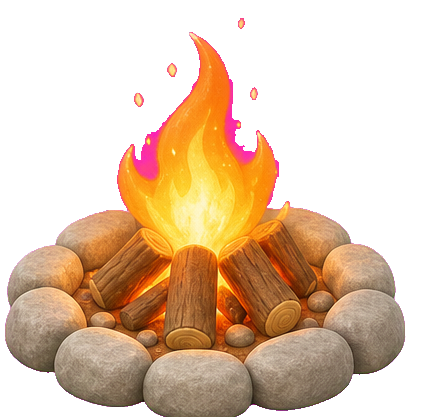
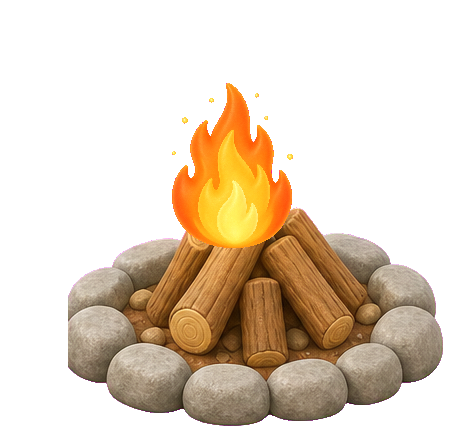
Fix mountain campsite assets

diff --git a/mathgame/script.js b/mathgame/script.js
@@ -122,9 +122,10 @@ const ASSETS = {
   waterfallLilypads: "assets/gpt-waterfall-lilypads.png",
   waterfallBasket: "assets/gpt-waterfall-basket.png",
   waterfallLavenderPlush: "assets/gpt-waterfall-lavender-plush.png?v=20260616-lavender-plush-v2",
-  mountainTent: "assets/gpt-mountain-tent.png",
-  mountainCampfireOff: "assets/gpt-mountain-campfire-off.png",
-  mountainCampfireOn: "assets/gpt-mountain-campfire-on.png",
+  mountainTent: "assets/gpt-mountain-tent.png?v=20260616-mountain-camp-v2",
+  mountainCampfireOff: "assets/gpt-mountain-campfire-off.png?v=20260616-mountain-camp-v2",
+  mountainCampfireOn: "assets/gpt-mountain-campfire-on.png?v=20260616-mountain-camp-v2",
+  mountainFairyLights: "assets/gpt-mountain-fairy-lights.png?v=20260616-mountain-camp-v2",
   mountainSnacks: "assets/gpt-mountain-snacks.png",
   mountainShelter: "assets/gpt-mountain-shelter.png",
   mountainLantern: "assets/gpt-mountain-lantern.png",
@@ -198,6 +199,7 @@ const DECOR_ITEMS = [
   { id: "lavenderPlush", scene: "waterfall", name: "Lavender plush", tex: "waterfallLavenderPlush", x: -2.62, y: 0.42, z: 0.62, w: 1.0, h: 0.93, reward: "Waterfall quests", cost: { coins: 70, gems: 0 }, optional: true },
   { id: "mountainTent", scene: "mountain", name: "Summit tent", tex: "mountainTent", x: -2.25, y: 0.74, z: 0.42, w: 1.52, h: 1.38, reward: "Summit Trail", cost: { coins: 125, gems: 1 } },
   { id: "mountainCampfire", scene: "mountain", name: "Campfire ring", tex: "mountainCampfireOff", x: 0.02, y: 0.42, z: 0.62, w: 1.0, h: 0.9, reward: "Mountain quests", cost: { coins: 95, gems: 1 } },
+  { id: "mountainFairyLights", scene: "mountain", name: "Fairy lights", tex: "mountainFairyLights", x: 0.16, y: 1.36, z: 0.34, w: 1.32, h: 0.45, reward: "Mountain quests", cost: { coins: 115, gems: 1 }, optional: true },
   { id: "mountainSnacks", scene: "mountain", name: "Trail snacks", tex: "mountainSnacks", x: 1.42, y: 0.46, z: 0.58, w: 0.86, h: 0.86, reward: "Mountain quests", cost: { coins: 75, gems: 0 } },
   { id: "mountainShelter", scene: "mountain", name: "Pup shelter", tex: "mountainShelter", x: 2.55, y: 0.95, z: 0.42, w: 1.34, h: 1.24, reward: "Mountain quests", cost: { coins: 140, gems: 2 } },
   { id: "mountainLantern", scene: "mountain", name: "Star lantern", tex: "mountainLantern", x: -0.98, y: 0.74, z: 0.5, w: 0.62, h: 1.04, reward: "Mountain quests", cost: { coins: 85, gems: 1 } },
@@ -409,9 +411,9 @@ if (IS_DEMO) {
     mountainUnlocked: true,
     underwaterUnlocked: true,
     kitchenUnlocked: true,
-    decorUnlocked: ["couch", "plant", "tv", "chair", "lamp", "table", "remote", "rockingDogToy", "piggyCarToy", "kitchenCounter", "kitchenSink", "kitchenWallShelves", "snackCart", "kitchenFridge", "oven", "bowlStation", "breakfastTable", "cookieTray", "shelfInsert", "cookieJar", "cupcakeStand", "teaKettle", "recipeBook", "herbPlanter", "puppyMug", "bench", "ball", "toys", "waterfallLog", "waterfallLantern", "waterfallLilypads", "waterfallBasket", "lavenderPlush", "mountainTent", "mountainCampfire", "mountainSnacks", "mountainShelter", "mountainLantern", "underwaterShellSeat", "underwaterPearlLamp", "underwaterTreasureChest", "underwaterBubbleHoop", "underwaterKelpHideout"],
-    decorOwned: ["couch", "plant", "tv", "chair", "lamp", "table", "remote", "rockingDogToy", "piggyCarToy", "kitchenCounter", "kitchenSink", "kitchenWallShelves", "snackCart", "kitchenFridge", "oven", "bowlStation", "breakfastTable", "cookieTray", "shelfInsert", "cookieJar", "cupcakeStand", "teaKettle", "recipeBook", "herbPlanter", "puppyMug", "bench", "ball", "toys", "waterfallLog", "waterfallLantern", "waterfallLilypads", "waterfallBasket", "lavenderPlush", "mountainTent", "mountainCampfire", "mountainSnacks", "mountainShelter", "mountainLantern", "underwaterShellSeat", "underwaterPearlLamp", "underwaterTreasureChest", "underwaterBubbleHoop", "underwaterKelpHideout"],
-    decorPlaced: ["couch", "plant", "tv", "lamp", "remote", "rockingDogToy", "piggyCarToy", "kitchenCounter", "kitchenSink", "kitchenWallShelves", "snackCart", "kitchenFridge", "oven", "bowlStation", "breakfastTable", "cookieTray", "shelfInsert", "cookieJar", "cupcakeStand", "teaKettle", "recipeBook", "herbPlanter", "puppyMug", "bench", "ball", "toys", "waterfallLog", "waterfallLantern", "waterfallLilypads", "waterfallBasket", "lavenderPlush", "mountainTent", "mountainCampfire", "mountainSnacks", "mountainShelter", "mountainLantern", "underwaterShellSeat", "underwaterPearlLamp", "underwaterTreasureChest", "underwaterBubbleHoop", "underwaterKelpHideout"],
+    decorUnlocked: ["couch", "plant", "tv", "chair", "lamp", "table", "remote", "rockingDogToy", "piggyCarToy", "kitchenCounter", "kitchenSink", "kitchenWallShelves", "snackCart", "kitchenFridge", "oven", "bowlStation", "breakfastTable", "cookieTray", "shelfInsert", "cookieJar", "cupcakeStand", "teaKettle", "recipeBook", "herbPlanter", "puppyMug", "bench", "ball", "toys", "waterfallLog", "waterfallLantern", "waterfallLilypads", "waterfallBasket", "lavenderPlush", "mountainTent", "mountainCampfire", "mountainFairyLights", "mountainSnacks", "mountainShelter", "mountainLantern", "underwaterShellSeat", "underwaterPearlLamp", "underwaterTreasureChest", "underwaterBubbleHoop", "underwaterKelpHideout"],
+    decorOwned: ["couch", "plant", "tv", "chair", "lamp", "table", "remote", "rockingDogToy", "piggyCarToy", "kitchenCounter", "kitchenSink", "kitchenWallShelves", "snackCart", "kitchenFridge", "oven", "bowlStation", "breakfastTable", "cookieTray", "shelfInsert", "cookieJar", "cupcakeStand", "teaKettle", "recipeBook", "herbPlanter", "puppyMug", "bench", "ball", "toys", "waterfallLog", "waterfallLantern", "waterfallLilypads", "waterfallBasket", "lavenderPlush", "mountainTent", "mountainCampfire", "mountainFairyLights", "mountainSnacks", "mountainShelter", "mountainLantern", "underwaterShellSeat", "underwaterPearlLamp", "underwaterTreasureChest", "underwaterBubbleHoop", "underwaterKelpHideout"],
+    decorPlaced: ["couch", "plant", "tv", "lamp", "remote", "rockingDogToy", "piggyCarToy", "kitchenCounter", "kitchenSink", "kitchenWallShelves", "snackCart", "kitchenFridge", "oven", "bowlStation", "breakfastTable", "cookieTray", "shelfInsert", "cookieJar", "cupcakeStand", "teaKettle", "recipeBook", "herbPlanter", "puppyMug", "bench", "ball", "toys", "waterfallLog", "waterfallLantern", "waterfallLilypads", "waterfallBasket", "lavenderPlush", "mountainTent", "mountainCampfire", "mountainFairyLights", "mountainSnacks", "mountainShelter", "mountainLantern", "underwaterShellSeat", "underwaterPearlLamp", "underwaterTreasureChest", "underwaterBubbleHoop", "underwaterKelpHideout"],
     decorPositions: {},
     decorStates: { lamp: 1, tv: 1, kitchenFridge: 1, kitchenSink: 0, oven: 0, mountainCampfire: 1, underwaterPearlLamp: 1 },
     petPositions: {

diff --git a/mathgame/index.html b/mathgame/index.html
@@ -191,7 +191,7 @@
       </div>
     </section>
 
-    <script src="script.js?v=20260616-world-decor-scale"></script>
+    <script src="script.js?v=20260616-mountain-camp-v2"></script>
     <script src="workbook-questions.js?v=20260615-mixed-number-prompts"></script>
   </body>
 </html>
